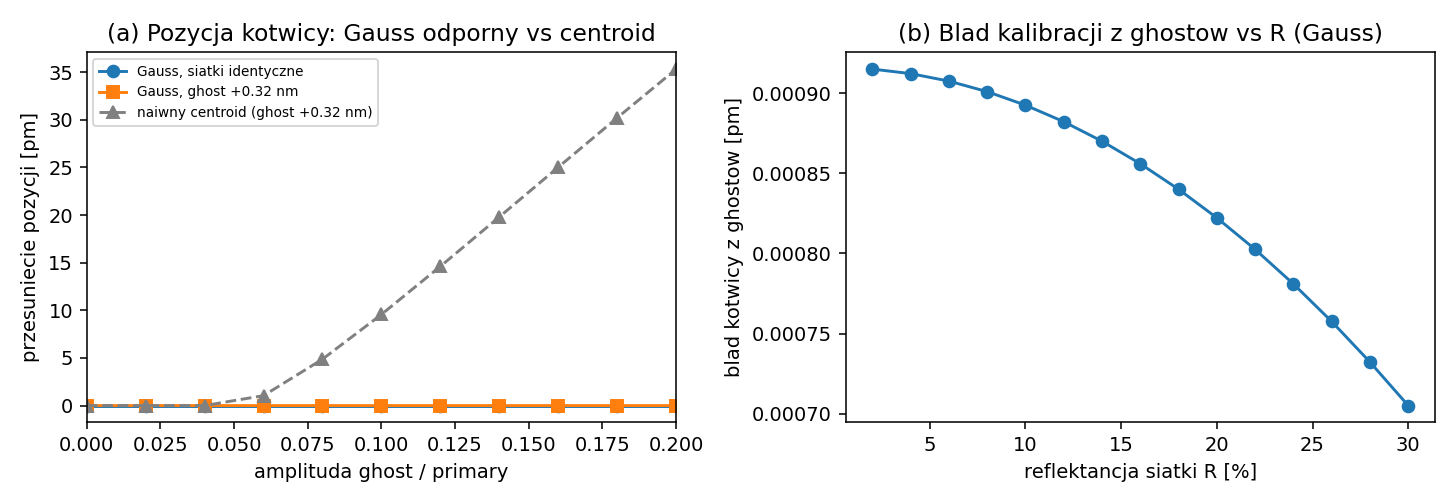
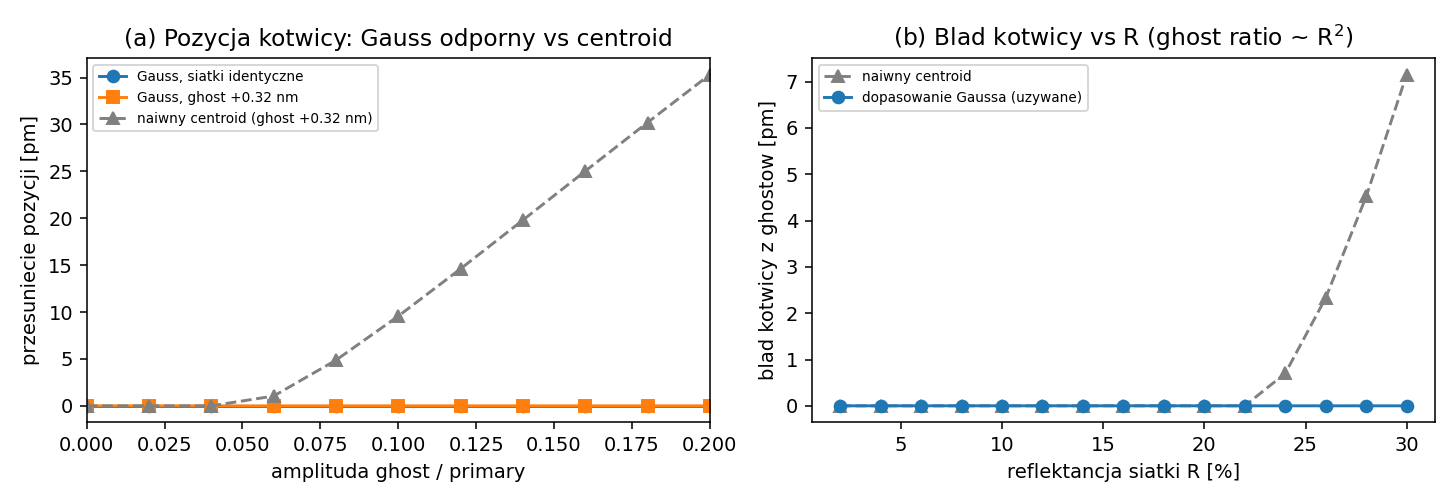
S5: kontrast centroid vs dopasowanie Gaussa w funkcji reflektancji

diff --git a/python_selfcal_cdm/s5_ghosts.py b/python_selfcal_cdm/s5_ghosts.py
@@ -17,17 +17,19 @@ g_id=[peak(a,0.0)[0] for a in alphas]
 g_s=[peak(a,40.0)[0] for a in alphas]        # ghost +0.32 nm
 c_s=[peak(a,40.0)[1] for a in alphas]        # naiwny centroid (dla kontrastu)
 amp=[peak(a,40.0)[2] for a in alphas]
-Rs=np.linspace(0.02,0.30,15); ratio=Rs**2
-gR=[abs(peak(rr,40.0)[0]) for rr in ratio]
+Rs=np.linspace(0.02,0.30,15); ratio=Rs**2   # ghost/primary ~ R^2 po korelacji
+gR=[abs(peak(rr,40.0)[0]) for rr in ratio]       # dopasowanie Gaussa (uzywane)
+cR=[abs(peak(rr,40.0)[1]) for rr in ratio]       # naiwny centroid (dla kontrastu)
 fig,ax=plt.subplots(1,2,figsize=(10.4,3.6))
 ax[0].plot(alphas,g_id,'o-',label='Gauss, siatki identyczne')
 ax[0].plot(alphas,g_s,'s-',label='Gauss, ghost +0.32 nm')
 ax[0].plot(alphas,c_s,'^--',color='0.5',label='naiwny centroid (ghost +0.32 nm)')
 ax[0].set_xlabel('amplituda ghost / primary'); ax[0].set_ylabel('przesuniecie pozycji [pm]')
 ax[0].set_xlim(0,0.2); ax[0].set_title('(a) Pozycja kotwicy: Gauss odporny vs centroid'); ax[0].legend(fontsize=7,loc='upper left')
-ax[1].plot(Rs*100,gR,'o-')
+ax[1].plot(Rs*100,cR,'^--',color='0.5',label='naiwny centroid')
+ax[1].plot(Rs*100,gR,'o-',label='dopasowanie Gaussa (uzywane)')
 ax[1].set_xlabel('reflektancja siatki R [%]'); ax[1].set_ylabel('blad kotwicy z ghostow [pm]')
-ax[1].set_title('(b) Blad kalibracji z ghostow vs R (Gauss)')
+ax[1].set_title('(b) Blad kotwicy vs R (ghost ratio ~ R$^2$)'); ax[1].legend(fontsize=7,loc='upper left')
 plt.tight_layout(); plt.savefig('figs/fig_s5_ghosts.png',dpi=140)
 print(f"Gauss @alpha=0.2: identyczne={g_id[-1]:.2f} pm, ghost+0.32nm={g_s[-1]:.2f} pm; naiwny centroid={c_s[-1]:.1f} pm")
 print(f"blad kotwicy Gauss @R=9%: {abs(peak(0.09**2,40.0)[0]):.3f} pm")
